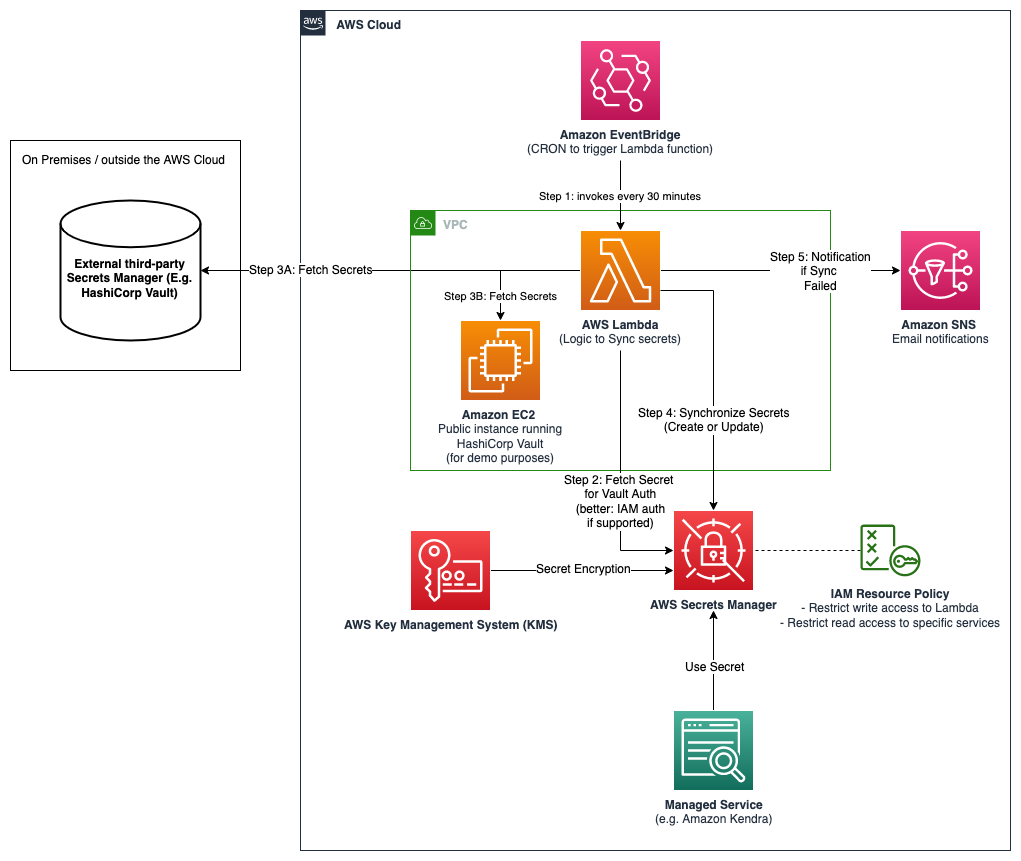
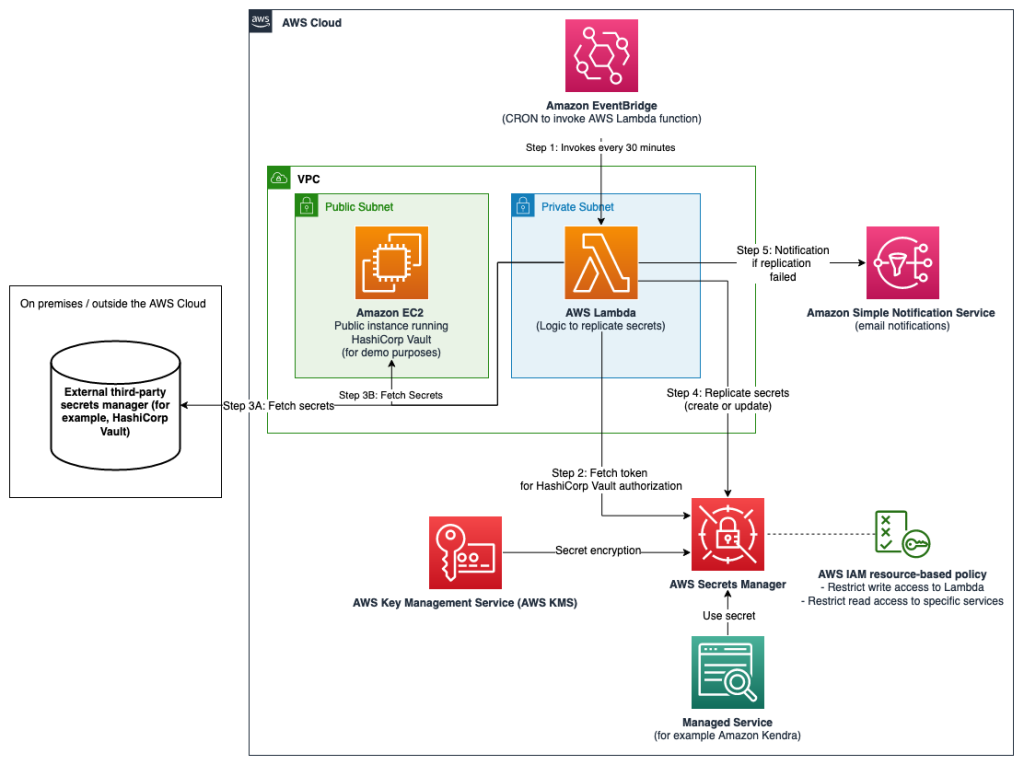
Add updates to README

diff --git a/README.md b/README.md
@@ -1,7 +1,7 @@
-# How to set up continuous replication from your third-party secrets manager to AWS Secrets Manager
+# How to set up ongoing replication from your third-party secrets manager to AWS Secrets Manager
 This sample shows you how you can use your third-party secrets manager as the source of truth for your secrets, whilst replicating a subset of these secrets to AWS Secrets Manager. By doing this, you will be able to use secrets originating and managed from your third-party secrets manager in AWS Cloud applications or in AWS Services that use Secrets Manager secrets. **This sample uses [HashiCorp Vault](https://www.vaultproject.io/) as third-party secrets manager**.
 
-**Important:** This sample is intended to provide guidance on how you could approach implementing a secrets replication mechanism. **This sample is not intended to be run directly in production** and your security risk appetite and hardening requirements will need to be taken into consideration. As an example, HashiCorp provides tutorials on [hardening production vaults](https://learn.hashicorp.com/tutorials/vault/production-hardening).
+**Important:** This sample is intended to provide guidance that you can use when planning and implementing a secrets replication mechanism. This sample is not intended to be run directly in production, and you will need to take security hardening requirements into consideration before deploying this solution. As an example, HashiCorp provides tutorials on [hardening production vaults](https://learn.hashicorp.com/tutorials/vault/production-hardening).
 
 ## DISCLAIMER
 The sample code; software libraries; command line tools; proofs of concept; templates; or other related technology (including any of the foregoing that are provided by our personnel) is provided to you as AWS Content under the AWS Customer Agreement, or the relevant written agreement between you and AWS (whichever applies). You should not use this AWS Content in your production accounts, or on production or other critical data. You are responsible for testing, securing, and optimizing the AWS Content, such as sample code, as appropriate for production grade use based on your specific quality control practices and standards. Deploying AWS Content may incur AWS charges for creating or using AWS chargeable resources, such as running Amazon EC2 instances or using Amazon S3 storage.
@@ -9,14 +9,14 @@ The sample code; software libraries; command line tools; proofs of concept; temp
 ![secrets-manager-arch](assets/1-secrets-replication-architecture.png)
 
 At its core, this projects contains a [CDK (AWS Cloud Development Kit)](https://aws.amazon.com/cdk/) script which deploys the following:
-* An Amazon EC2 instance running a demo open-source HashiCorp Vault (3B). You will have access the HCP Vault UI running on the instance to add, update and delete secrets. Adjust the `cdk.json` file if you want to specify your own HCP Vault IP address (3A). 
+* An Amazon EC2 instance running a demo open-source HashiCorp Vault (3B). You will have access the HCP Vault UI running on the instance to add, update and delete secrets. Adjust the `cdk.json` file if you want to specify your own HCP Vault IP address (3A).
 * An initialisation script which sets up the HashiCorp Vault, and adds some sample secrets to it
 * An AWS Lambda function which replicates any new or updated secrets from HashiCorp Vault matching a particular prefix to AWS Secrets Manager
 * A Cron Job in Amazon EventBridge which triggers the Lambda function periodically (default: every 30 minutes)
 * An AWS KMS key for encryption of secrets
 * An optional Amazon SNS topic for email notifications if replication fails
 
-**Note:** Depending on the location of your third-party secrets manager, you may have to consider different networking topologies. For example, you might need to setup a hybrid connection between your on-premises secrets manager and the AWS Cloud if there is no connectivity yet. Although the communication between the replication service shown in this sample and the third-party secrets manager is encrypted using TLS, AWS customers typically setup a hybrid connectivity between their on-premises environment and the AWS Cloud using [AWS Site-to-Site VPN](https://docs.aws.amazon.com/vpn/latest/s2svpn/VPC_VPN.html), and/or [AWS Direct Connect](https://docs.aws.amazon.com/directconnect/latest/UserGuide/Welcome.html).
+**Note:** Depending on the location of your third-party secrets manager, you might have to consider different networking topologies. For example, you might need to set up hybrid connectivity between your external environment and the AWS Cloud by using [AWS Site-to-Site VPN](https://docs.aws.amazon.com/vpn/latest/s2svpn/VPC_VPN.html), [AWS Direct Connect](https://docs.aws.amazon.com/directconnect/latest/UserGuide/Welcome.html), or both.
 
 ## Getting started
 ### Deploy the solution
@@ -29,8 +29,15 @@ cd SecretsManagerReplication
 Open the project in your favorite IDE and open a terminal in the root folder of the project. If your local environment does not have a terminal that allows you to run these commands, consider using [AWS Cloud9](https://docs.aws.amazon.com/cloud9/latest/user-guide/welcome.html) or [AWS CloudShell](https://docs.aws.amazon.com/cloudshell/latest/userguide/welcome.html).
 
 #### Important prerequisites
-* You need a valid AWS Access Key ID and Secret Access Key configured, as some of the commands below will interact with your AWS account. See [Configuration basics](https://docs.aws.amazon.com/cli/latest/userguide/cli-configure-quickstart.html) for more details.
-* You need to have [Docker Desktop](https://www.docker.com/products/docker-desktop/) installed for the deployment
+To deploy the solution, the following should be in place on your system:
+1. [Git](https://git-scm.com/downloads)
+2. [Node](https://nodejs.org/en/download/) (version 16 or higher)
+3. [jq](https://stedolan.github.io/jq/download/)
+4. [AWS CDK Toolkit](https://www.npmjs.com/package/aws-cdk). Install using npm (included in Node setup) by running npm install -g aws-cdk in a local terminal.
+5. An AWS access key ID and secret access key configured as this setup will interact with your AWS account. See [Configuration basics](https://docs.aws.amazon.com/cli/latest/userguide/cli-configure-quickstart.html) in the AWS Command Line Interface User Guide for more details.
+6. You need to have [Docker Desktop](https://www.docker.com/products/docker-desktop/) installed **and running** for the deployment
+
+### Deploy the solution
 
 1. Install CDK v2 by running the following command in your terminal:
 ```bash
@@ -40,22 +47,22 @@ npm install -g aws-cdk
 ```bash
 cdk --version
 ```
-3. Install dependencies
+1. Install dependencies
 ```bash
 npm install
 ```
-4. (optional) Adjust any of the default configurations in `cdk.json`:
+1. (optional) Adjust any of the default configurations in `cdk.json`:
    1. `hcpvaultInboundIPCidr`: Default "0.0.0.0/0". Adjust to only allow traffic to your HashiCorp Vault from a specific CIDR range.
    2. `notificationEmail`: Default "". Add an email address to enable email notifications if a replication has failed. Leave as empty string to have no notifications, and don't deploy an Amazon SNS Topic.
    3. `secretsPrefix`: Default "hybrid-aws-secrets". This prefix will be used to identify which secrets should be replicated, adjust to have a custom value for this.
    4. `deployHCPVaultOnEC2`: Default: true. Adjust this boolean value to change whether or not you want to deploy a sample open-source HashiCorp Vault on EC2.
    5. `optionalExternalVaultAddress`: Default: "". If the `deployHCPVaultOnEC2` value is set to `false`, provide an IP address (string) to replicate secrets from an external HashiCorp Vault.
    6. `lambdaCronSchedule`: Default: "cron(0,30 * * * ? *)". Cron expression to trigger the AWS Lambda function periodically following the format defined [here](https://docs.aws.amazon.com/eventbridge/latest/userguide/eb-create-rule-schedule.html)
-5. Bootstrap the CDK environment
+2. Bootstrap the CDK environment
 ```bash
 cdk bootstrap
 ```
-5. Deploy the CDK project
+1. Deploy the CDK project. Make sure that Docker is running on your machine.
 ```bash
 cdk deploy
 ```
